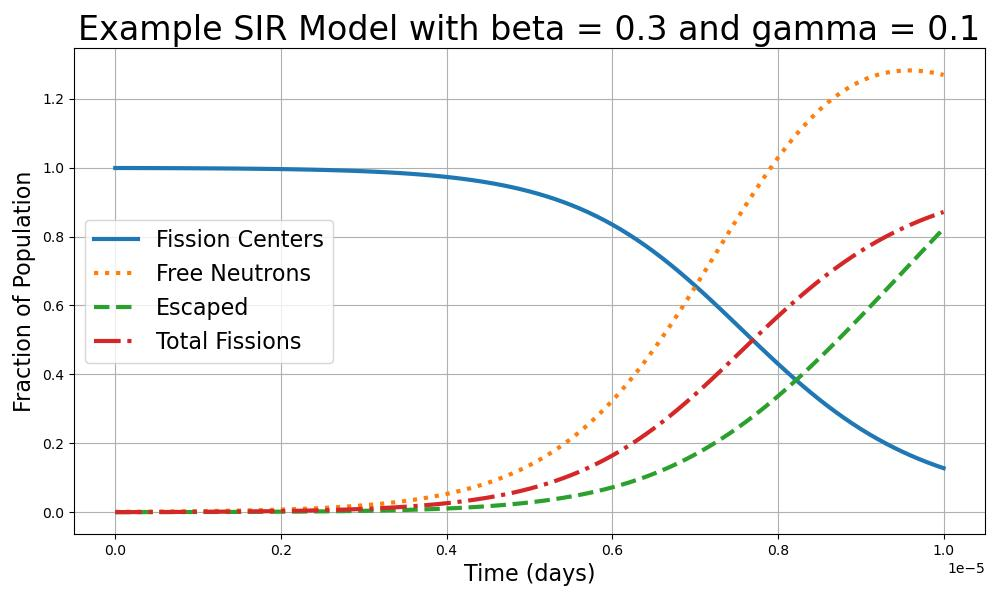
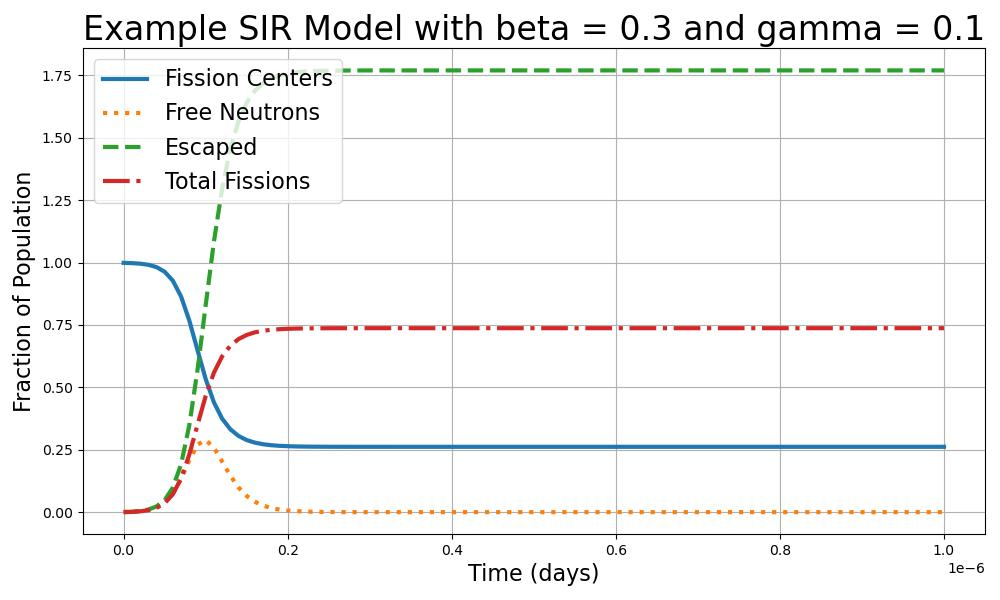
Added correct rate expressions.

diff --git a/final_project.py b/final_project.py
@@ -10,7 +10,7 @@ import scipy
 # This in turn determines the rate at which neutrons leave the spherical bomb.
 
 # Find ejection probabilities based on radius and mfp
-radii_to_test = [i for i in range(1,51, 5)] # list generation
+radii_to_test = [i for i in range(1,5, 5)] # list generation
 uranium_density = 4.8 * (10**(22)) # 1/cm^3
 uranium_cross_section = 1.2 * (10**(-24)) # cm^2
 
@@ -87,12 +87,12 @@ R0 = 0
 P0 = 0
 S0 = N - I0 - R0 - P0
 
-fission_rate = .5 / (1e-6)
+fission_rate = - math.log(1 - 0.5) / (10e-9)
 print(fission_rate)
-ejection_rate = .2 / (1e-6)
+ejection_rate = - math.log(1 - 0.6) / (10e-9)
 
 import numpy
-t = numpy.linspace(0, 10e-6, 101)
+t = numpy.linspace(0, 1e-6, 101)
 print(t)
 
 y0 = [S0/N, I0/N, R0/N, P0/N]

diff --git a/library.py b/library.py
@@ -45,10 +45,10 @@ def mc_integrator3(N, radius, delta_size):
         if (new_position * new_position).sum() > r2:
             count += 1
 
-        # probability = count / (N * SOLID_ANGLE * SPHERE_VOLUME)
+        probability = count / (N * SOLID_ANGLE * SPHERE_VOLUME)
         # probability above gives really high values of k always...
         # need to divide by all the length dimensions integrated over!
-        probability = count / N # if you don't divide by dimension
+        # probability = count / N # if you don't divide by dimension
 
     return probability, count
 
